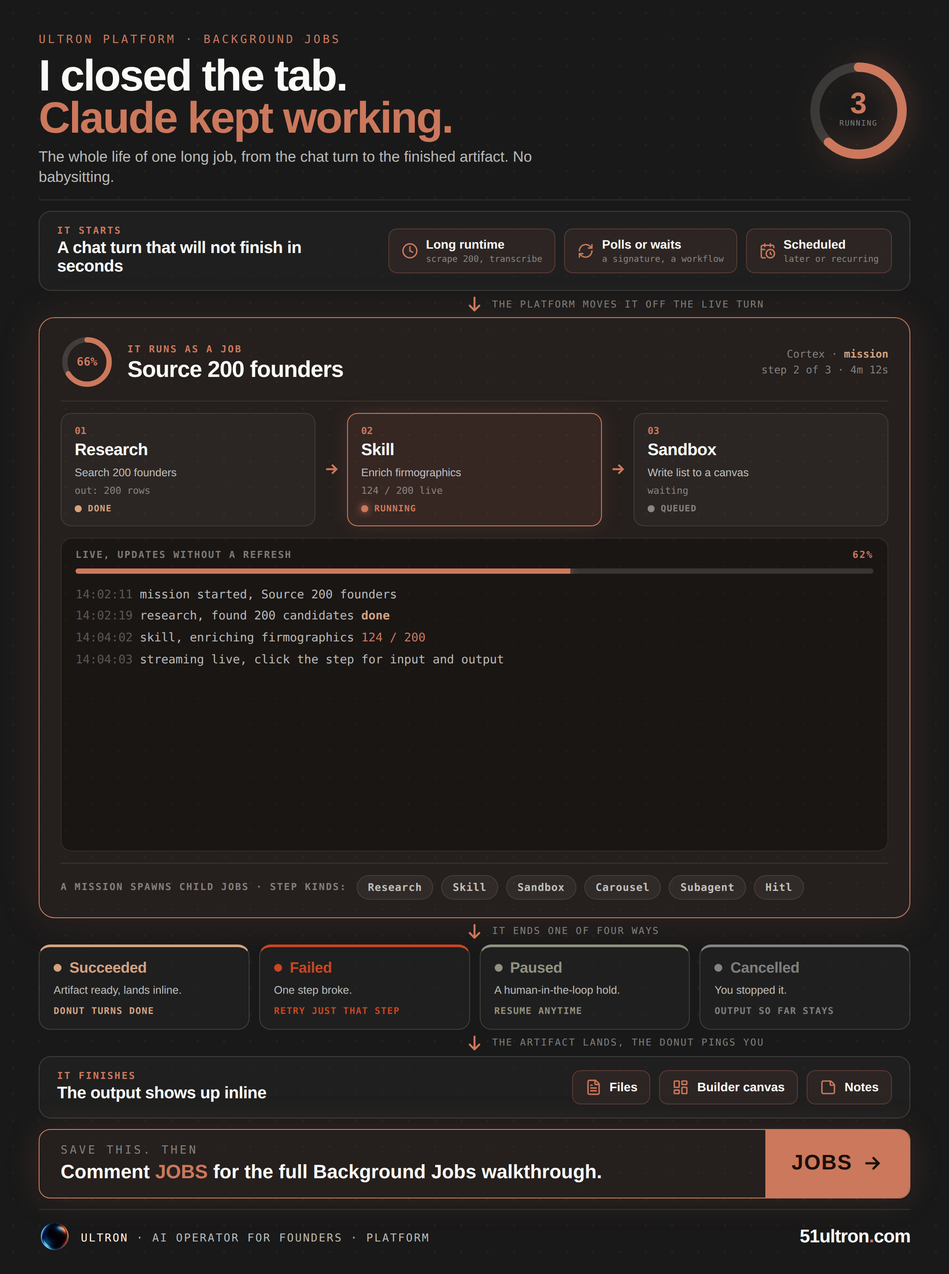
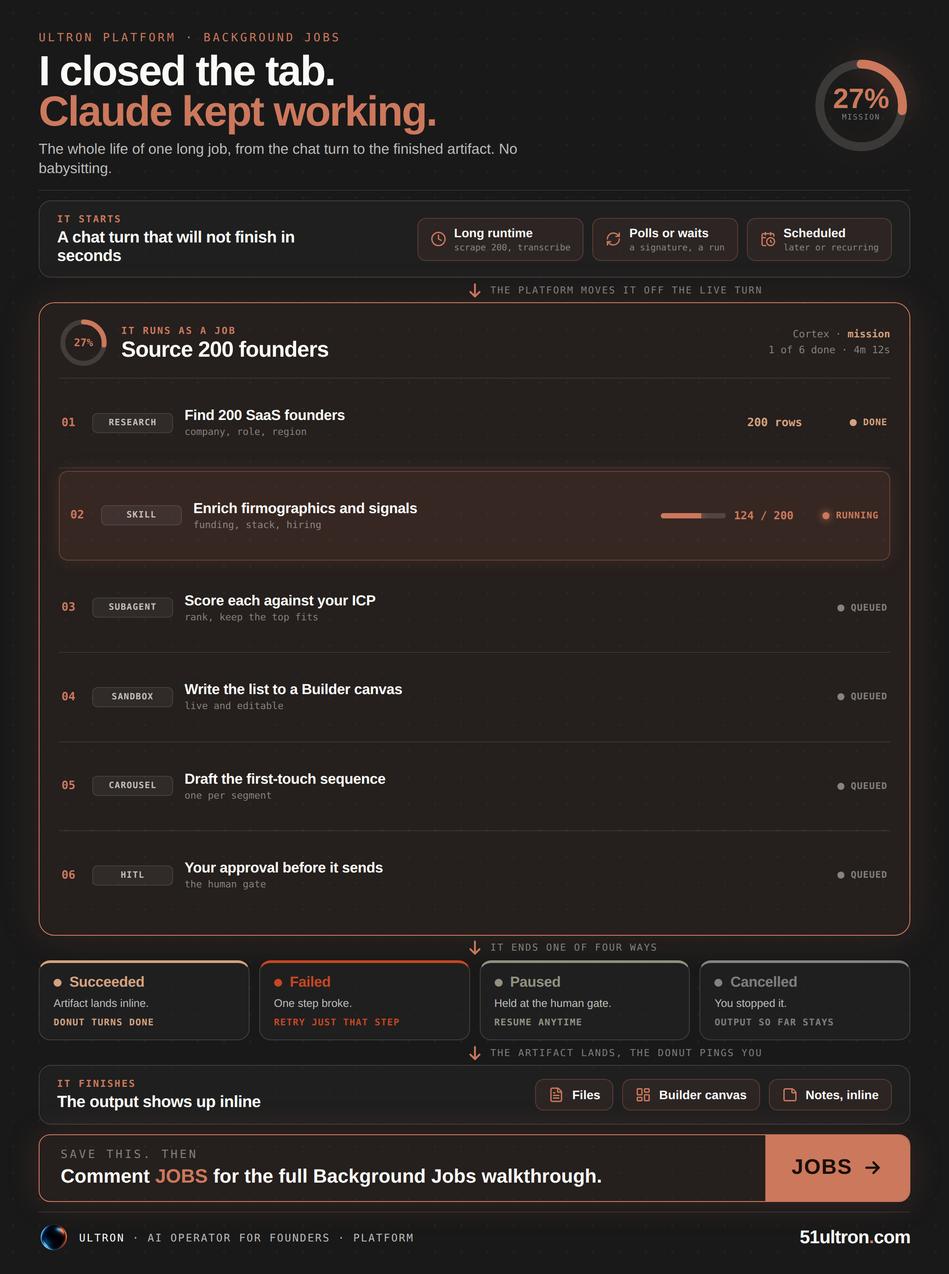
docs-05 Background Jobs: replace terminal log with full live mission panel
Operator: the live terminal console was the wrong element (reads as tool output,
not product UI) and half empty. Repopulate the focal with the correct element:
the real live mission panel. Six child jobs, one per step kind (Research, Skill,
Subagent, Sandbox, Carousel, Hitl), each a rich row with status, progress bar,
counter or result, aligned. Coherent GTM story: source > enrich > score > write
> draft > approve. Fills the focal, no dead space, on-brand. Metadata scrubbed.

https://claude.ai/code/session_018fS7xMwDiJUxoNS3zo3BKw

diff --git a/content/docs-05-jobs-linkedin-journey.html b/content/docs-05-jobs-linkedin-journey.html
@@ -2,81 +2,73 @@
 :root{--slate:#191919;--slate2:#262625;--ivory:#FAFAF7;--ink70:rgba(250,250,247,.72);--ink46:rgba(250,250,247,.46);--ink30:rgba(250,250,247,.30);--ink14:rgba(250,250,247,.14);--rule:rgba(250,250,247,.10);--book:#CC785C;--book-d:#C84623;--kraft:#D4A27F;--cloud:#919180;}
 *{box-sizing:border-box;margin:0;padding:0;}
 body{background:#0d0d0d;display:flex;justify-content:center;padding:24px 0;font-family:'DM Sans',sans-serif;}
-.frame{width:1080px;height:1450px;background:var(--slate);padding:38px 44px 24px;position:relative;overflow:hidden;color:var(--ivory);display:flex;flex-direction:column;}
+.frame{width:1080px;height:1450px;background:var(--slate);padding:36px 44px 24px;position:relative;overflow:hidden;color:var(--ivory);display:flex;flex-direction:column;}
 .frame::before{content:'';position:absolute;inset:0;pointer-events:none;z-index:0;background-image:radial-gradient(rgba(204,120,92,.06) 1.4px,transparent 1.5px);background-size:30px 30px;}
 .atm{position:absolute;inset:0;pointer-events:none;z-index:1;background:radial-gradient(ellipse 56% 26% at 88% -1%,rgba(204,120,92,.18) 0%,transparent 60%),radial-gradient(ellipse 50% 22% at 4% 101%,rgba(212,162,127,.09) 0%,transparent 60%);}
 .frame>*{position:relative;z-index:2;}
-.hero{flex-shrink:0;display:flex;align-items:center;justify-content:space-between;gap:20px;padding-bottom:14px;border-bottom:1px solid var(--rule);margin-bottom:12px;}
-.eye{font-family:'DM Mono',monospace;font-size:13px;font-weight:500;letter-spacing:.2em;text-transform:uppercase;color:var(--book);margin-bottom:9px;}
-.hook{font-weight:900;font-size:50px;line-height:.96;letter-spacing:-1.6px;}.hook em{color:var(--book);font-style:normal;}
-.sub{margin-top:9px;font-size:17px;font-weight:500;line-height:1.36;color:var(--ink70);max-width:620px;}.sub b{color:var(--ivory);font-weight:700;}
-.donut-w{flex-shrink:0;position:relative;width:118px;height:118px;display:flex;align-items:center;justify-content:center;}
-.donut{width:118px;height:118px;transform:rotate(-90deg);filter:drop-shadow(0 0 16px rgba(204,120,92,.4));}
+.hero{flex-shrink:0;display:flex;align-items:center;justify-content:space-between;gap:20px;padding-bottom:13px;border-bottom:1px solid var(--rule);margin-bottom:11px;}
+.eye{font-family:'DM Mono',monospace;font-size:13px;font-weight:500;letter-spacing:.2em;text-transform:uppercase;color:var(--book);margin-bottom:8px;}
+.hook{font-weight:900;font-size:48px;line-height:.96;letter-spacing:-1.5px;}.hook em{color:var(--book);font-style:normal;}
+.sub{margin-top:8px;font-size:16.5px;font-weight:500;line-height:1.34;color:var(--ink70);max-width:600px;}
+.donut-w{flex-shrink:0;position:relative;width:112px;height:112px;display:flex;align-items:center;justify-content:center;}
+.donut{width:112px;height:112px;transform:rotate(-90deg);filter:drop-shadow(0 0 16px rgba(204,120,92,.4));}
 .donut .trk{fill:none;stroke:var(--ink14);stroke-width:9;}.donut .arc{fill:none;stroke:var(--book);stroke-width:9;stroke-linecap:round;}
 .donut-c{position:absolute;display:flex;flex-direction:column;align-items:center;}
-.donut-n{font-weight:900;font-size:34px;color:var(--book);line-height:.8;}.donut-l{font-family:'DM Mono',monospace;font-size:8.5px;font-weight:500;letter-spacing:.13em;text-transform:uppercase;color:var(--ink46);margin-top:4px;}
-/* flow */
+.donut-n{font-weight:900;font-size:32px;color:var(--book);line-height:.8;}.donut-l{font-family:'DM Mono',monospace;font-size:8.5px;font-weight:500;letter-spacing:.13em;text-transform:uppercase;color:var(--ink46);margin-top:4px;}
 .flow{flex:1;display:flex;flex-direction:column;min-height:0;}
-.arrow{flex-shrink:0;display:flex;flex-direction:column;align-items:center;justify-content:center;color:var(--book);height:30px;position:relative;}
-.arrow .lbl{position:absolute;left:calc(50% + 20px);font-family:'DM Mono',monospace;font-size:11px;font-weight:500;letter-spacing:.12em;text-transform:uppercase;color:var(--ink46);white-space:nowrap;}
-.arrow svg{width:22px;height:22px;stroke:var(--book);stroke-width:2.4;fill:none;stroke-linecap:round;stroke-linejoin:round;}
-/* band A */
-.band{flex-shrink:0;background:rgba(38,38,37,.5);border:1px solid var(--ink14);border-radius:14px;padding:15px 20px;display:flex;align-items:center;gap:18px;}
+.arrow{flex-shrink:0;display:flex;align-items:center;justify-content:center;color:var(--book);height:28px;position:relative;}
+.arrow .lbl{position:absolute;left:calc(50% + 18px);font-family:'DM Mono',monospace;font-size:11px;font-weight:500;letter-spacing:.12em;text-transform:uppercase;color:var(--ink46);white-space:nowrap;}
+.arrow svg{width:21px;height:21px;stroke:var(--book);stroke-width:2.4;fill:none;stroke-linecap:round;stroke-linejoin:round;}
+.band{flex-shrink:0;background:rgba(38,38,37,.5);border:1px solid var(--ink14);border-radius:14px;padding:14px 20px;display:flex;align-items:center;gap:18px;}
 .band .bt{flex-shrink:0;}
 .band .bt .k{font-family:'DM Mono',monospace;font-size:11px;font-weight:600;letter-spacing:.14em;text-transform:uppercase;color:var(--book);margin-bottom:4px;}
-.band .bt .h{font-size:19px;font-weight:800;letter-spacing:-.3px;color:var(--ivory);line-height:1.1;max-width:300px;}
+.band .bt .h{font-size:18.5px;font-weight:800;letter-spacing:-.3px;color:var(--ivory);line-height:1.1;max-width:290px;}
 .chips{display:flex;gap:10px;flex:1;justify-content:flex-end;flex-wrap:wrap;}
-.chip{display:flex;align-items:center;gap:9px;background:rgba(204,120,92,.08);border:1px solid rgba(204,120,92,.28);border-radius:10px;padding:9px 14px;}
-.chip .ci{width:19px;height:19px;flex-shrink:0;}.chip .ci svg{width:100%;height:100%;}
+.chip{display:flex;align-items:center;gap:9px;background:rgba(204,120,92,.08);border:1px solid rgba(204,120,92,.28);border-radius:10px;padding:8px 14px;}
+.chip .ci{width:18px;height:18px;flex-shrink:0;}.chip .ci svg{width:100%;height:100%;}
 .chip .ct{font-size:14px;font-weight:700;color:var(--ivory);line-height:1.05;}.chip .cs{display:block;font-family:'DM Mono',monospace;font-size:10px;font-weight:500;color:var(--ink46);margin-top:2px;}
-/* focal B */
-.focal{flex:1;min-height:0;background:rgba(204,120,92,.07);border:1.5px solid var(--book);border-radius:18px;box-shadow:0 0 50px rgba(204,120,92,.14);padding:20px 24px;display:flex;flex-direction:column;}
-.focal-h{display:flex;align-items:center;gap:16px;flex-shrink:0;padding-bottom:14px;border-bottom:1px solid var(--rule);}
-.fd{width:60px;height:60px;position:relative;flex-shrink:0;display:flex;align-items:center;justify-content:center;}
-.fd svg{width:60px;height:60px;transform:rotate(-90deg);}.fd .trk{fill:none;stroke:var(--ink14);stroke-width:10;}.fd .arc{fill:none;stroke:var(--book);stroke-width:10;stroke-linecap:round;}
-.fd .fdt{position:absolute;font-family:'DM Mono',monospace;font-size:13px;font-weight:700;color:var(--book);}
+/* FOCAL = live mission panel */
+.focal{flex:1;min-height:0;background:rgba(204,120,92,.07);border:1.5px solid var(--book);border-radius:18px;box-shadow:0 0 50px rgba(204,120,92,.14);padding:17px 22px;display:flex;flex-direction:column;}
+.focal-h{display:flex;align-items:center;gap:15px;flex-shrink:0;padding-bottom:12px;border-bottom:1px solid var(--rule);}
+.fd{width:56px;height:56px;position:relative;flex-shrink:0;display:flex;align-items:center;justify-content:center;}
+.fd svg{width:56px;height:56px;transform:rotate(-90deg);}.fd .trk{fill:none;stroke:var(--ink14);stroke-width:10;}.fd .arc{fill:none;stroke:var(--book);stroke-width:10;stroke-linecap:round;}
+.fd .fdt{position:absolute;font-family:'DM Mono',monospace;font-size:12px;font-weight:700;color:var(--book);}
 .focal-h .ft .k{font-family:'DM Mono',monospace;font-size:11px;font-weight:600;letter-spacing:.14em;text-transform:uppercase;color:var(--book);margin-bottom:3px;}
-.focal-h .ft .h{font-size:26px;font-weight:900;letter-spacing:-.6px;color:var(--ivory);line-height:1;}
-.focal-h .meta{margin-left:auto;text-align:right;font-family:'DM Mono',monospace;font-size:12px;font-weight:500;color:var(--ink46);line-height:1.5;}
+.focal-h .ft .h{font-size:25px;font-weight:900;letter-spacing:-.6px;color:var(--ivory);line-height:1;}
+.focal-h .meta{margin-left:auto;text-align:right;font-family:'DM Mono',monospace;font-size:11.5px;font-weight:500;color:var(--ink46);line-height:1.55;}
 .focal-h .meta b{color:var(--kraft);font-weight:700;}
-.steps{flex-shrink:0;display:flex;align-items:stretch;justify-content:space-between;gap:8px;padding:13px 0;}
-.stp{flex:1;display:flex;flex-direction:column;background:rgba(255,255,255,.03);border:1px solid var(--rule);border-radius:12px;padding:13px 15px;}
-.stp.run{border-color:var(--book);background:rgba(204,120,92,.1);box-shadow:0 0 24px rgba(204,120,92,.16);}
-.stp .sn{font-family:'DM Mono',monospace;font-size:11px;font-weight:700;color:var(--book);}
-.stp .sk{font-size:19px;font-weight:800;color:var(--ivory);letter-spacing:-.3px;margin:5px 0 6px;}
-.stp .sd{font-size:12.5px;font-weight:500;color:var(--ink70);line-height:1.32;}
-.sio{font-family:'DM Mono',monospace;font-size:11px;font-weight:500;color:var(--ink46);margin-top:5px;}
-.stp .ss{margin-top:auto;padding-top:9px;display:inline-flex;align-items:center;gap:7px;font-family:'DM Mono',monospace;font-size:10px;font-weight:600;letter-spacing:.08em;text-transform:uppercase;}
-.stp .ss .d{width:8px;height:8px;border-radius:50%;}
-.ss.done{color:var(--kraft);}.ss.done .d{background:var(--kraft);}
-.ss.run{color:var(--book);}.ss.run .d{background:var(--book);box-shadow:0 0 9px var(--book);}
-.ss.q{color:var(--ink46);}.ss.q .d{background:var(--ink46);}
-.sarrow{flex-shrink:0;color:var(--book);display:flex;align-items:center;}.sarrow svg{width:20px;height:20px;stroke:var(--book);stroke-width:2.6;fill:none;}
-.live{flex:1;min-height:0;display:flex;flex-direction:column;background:rgba(0,0,0,.28);border:1px solid var(--rule);border-radius:12px;padding:12px 16px;margin-bottom:13px;overflow:hidden;}
-.live-h{display:flex;align-items:center;font-family:'DM Mono',monospace;font-size:11px;font-weight:600;letter-spacing:.12em;text-transform:uppercase;color:var(--ink46);}
-.live-h .pct{margin-left:auto;color:var(--book);}
-.bar{height:6px;border-radius:3px;background:var(--ink14);margin:9px 0 12px;overflow:hidden;}
-.bar span{display:block;height:100%;width:62%;background:var(--book);box-shadow:0 0 12px var(--book);}
-.log{flex:1;font-family:'DM Mono',monospace;font-size:13.5px;line-height:1.85;color:var(--ink70);}
-.log .t{color:var(--ink30);}.log b{color:var(--kraft);font-weight:700;}.log em{color:var(--book);font-style:normal;}
-.kinds{flex-shrink:0;display:flex;align-items:center;gap:9px;flex-wrap:wrap;padding-top:13px;border-top:1px solid var(--rule);}
-.kinds .kl{font-family:'DM Mono',monospace;font-size:11px;font-weight:600;letter-spacing:.12em;text-transform:uppercase;color:var(--ink46);margin-right:2px;}
-.kc{font-family:'DM Mono',monospace;font-size:12px;font-weight:600;letter-spacing:.04em;color:var(--ink70);background:rgba(250,250,247,.05);border:1px solid var(--rule);padding:6px 12px;border-radius:20px;}
-/* branch C */
+.mrows{flex:1;display:flex;flex-direction:column;min-height:0;}
+.srow{flex:1;display:flex;align-items:center;gap:13px;border-bottom:1px solid var(--rule);padding:0 3px;}
+.srow:last-child{border-bottom:none;}
+.srow.run{background:rgba(204,120,92,.1);border:1px solid rgba(204,120,92,.34);border-radius:10px;padding:0 12px;margin:3px 0;box-shadow:0 0 22px rgba(204,120,92,.14);}
+.ri{font-family:'DM Mono',monospace;font-size:13px;font-weight:700;color:var(--book);width:22px;flex-shrink:0;}
+.rk{font-family:'DM Mono',monospace;font-size:10px;font-weight:600;letter-spacing:.08em;color:var(--ink70);background:rgba(250,250,247,.05);border:1px solid var(--rule);padding:5px 0;border-radius:6px;width:92px;text-align:center;flex-shrink:0;}
+.rt{flex:1;font-size:16.5px;font-weight:700;color:var(--ivory);letter-spacing:-.2px;min-width:0;}
+.rt .rsub{display:block;font-family:'DM Mono',monospace;font-size:11px;font-weight:500;color:var(--ink46);margin-top:2px;letter-spacing:0;}
+.rr{display:flex;align-items:center;justify-content:flex-end;gap:13px;flex-shrink:0;min-width:236px;}
+.res{font-family:'DM Mono',monospace;font-size:13px;font-weight:700;color:var(--kraft);}
+.prog{display:flex;align-items:center;gap:9px;font-family:'DM Mono',monospace;font-size:12.5px;font-weight:700;color:var(--book);}
+.pbar{width:74px;height:6px;border-radius:3px;background:var(--ink14);overflow:hidden;}.pbar i{display:block;height:100%;background:var(--book);box-shadow:0 0 10px var(--book);}
+.qd{font-family:'DM Mono',monospace;font-size:12px;color:var(--ink30);}
+.rs{display:flex;align-items:center;gap:7px;font-family:'DM Mono',monospace;font-size:10.5px;font-weight:600;letter-spacing:.06em;text-transform:uppercase;width:84px;justify-content:flex-end;}
+.rs .d{width:8px;height:8px;border-radius:50%;flex-shrink:0;}
+.rs.done{color:var(--kraft);}.rs.done .d{background:var(--kraft);}
+.rs.run{color:var(--book);}.rs.run .d{background:var(--book);box-shadow:0 0 9px var(--book);}
+.rs.q{color:var(--ink46);}.rs.q .d{background:var(--ink46);}
 .branch{flex-shrink:0;display:grid;grid-template-columns:repeat(4,1fr);gap:11px;}
-.oc{background:rgba(38,38,37,.5);border:1px solid var(--ink14);border-top:3px solid var(--c);border-radius:13px;padding:14px 16px;}
-.oc .on{display:flex;align-items:center;gap:9px;font-weight:800;font-size:17px;letter-spacing:-.2px;color:var(--c);margin-bottom:7px;}
+.oc{background:rgba(38,38,37,.5);border:1px solid var(--ink14);border-top:3px solid var(--c);border-radius:13px;padding:13px 16px;}
+.oc .on{display:flex;align-items:center;gap:9px;font-weight:800;font-size:16.5px;letter-spacing:-.2px;color:var(--c);margin-bottom:6px;}
 .oc .on .d{width:9px;height:9px;border-radius:50%;background:var(--c);flex-shrink:0;}
-.oc .od{font-size:12.5px;font-weight:500;color:var(--ink70);line-height:1.34;}
-.oc .ok{margin-top:9px;font-family:'DM Mono',monospace;font-size:10.5px;font-weight:600;letter-spacing:.08em;text-transform:uppercase;color:var(--c);}
-.cta{flex-shrink:0;margin-top:12px;display:flex;align-items:stretch;border:1px solid var(--book);border-radius:13px;overflow:hidden;box-shadow:0 0 40px rgba(204,120,92,.16);}
-.cta-l{flex:1;padding:16px 24px;display:flex;flex-direction:column;justify-content:center;gap:4px;background:rgba(204,120,92,.07);}
+.oc .od{font-size:12.5px;font-weight:500;color:var(--ink70);line-height:1.32;}
+.oc .ok{margin-top:8px;font-family:'DM Mono',monospace;font-size:10.5px;font-weight:600;letter-spacing:.08em;text-transform:uppercase;color:var(--c);}
+.cta{flex-shrink:0;margin-top:11px;display:flex;align-items:stretch;border:1px solid var(--book);border-radius:13px;overflow:hidden;box-shadow:0 0 40px rgba(204,120,92,.16);}
+.cta-l{flex:1;padding:15px 24px;display:flex;flex-direction:column;justify-content:center;gap:4px;background:rgba(204,120,92,.07);}
 .cta-k{font-family:'DM Mono',monospace;font-size:13px;font-weight:500;letter-spacing:.2em;text-transform:uppercase;color:var(--ink46);}
 .cta-t{font-size:22px;font-weight:700;color:var(--ivory);line-height:1.2;}.cta-t b{color:var(--book);font-weight:900;}
 .cta-chip{flex-shrink:0;padding:0 30px;gap:11px;background:var(--book);display:flex;align-items:center;font-size:24px;font-weight:900;letter-spacing:.04em;text-transform:uppercase;color:#1a0f0a;}
 .cta-chip svg{width:24px;height:24px;stroke:#1a0f0a;stroke-width:2.6;fill:none;stroke-linecap:round;stroke-linejoin:round;}
-.ftr{flex-shrink:0;margin-top:12px;display:flex;align-items:center;justify-content:space-between;gap:18px;border-top:1px solid var(--rule);padding-top:13px;}
-.fl{display:flex;align-items:center;gap:12px;min-width:0;}.flogo{width:36px;height:36px;border-radius:50%;object-fit:cover;}
-.ftx{font-family:'DM Mono',monospace;font-size:12.5px;font-weight:400;letter-spacing:.12em;text-transform:uppercase;color:var(--ink70);}.ftx b{color:var(--ivory);font-weight:500;}
+.ftr{flex-shrink:0;margin-top:11px;display:flex;align-items:center;justify-content:space-between;gap:18px;border-top:1px solid var(--rule);padding-top:12px;}
+.fl{display:flex;align-items:center;gap:12px;min-width:0;}.flogo{width:34px;height:34px;border-radius:50%;object-fit:cover;}
+.ftx{font-family:'DM Mono',monospace;font-size:12px;font-weight:400;letter-spacing:.12em;text-transform:uppercase;color:var(--ink70);}.ftx b{color:var(--ivory);font-weight:500;}
 .furl{font-weight:900;font-size:21px;letter-spacing:-.5px;color:var(--ivory);}.furl em{color:var(--book);font-style:normal;}
-</style></head><body><div class="frame" id="artifact"><div class="atm"></div><div class="hero"><div><div class="eye">Ultron Platform &middot; Background Jobs</div><div class="hook">I closed the tab.<br><em>Claude kept working.</em></div><div class="sub">The whole life of one long job, from the chat turn to the finished artifact. No babysitting.</div></div><div class="donut-w"><svg class="donut" viewBox="0 0 100 100"><circle class="trk" cx="50" cy="50" r="42"/><circle class="arc" cx="50" cy="50" r="42" stroke-dasharray="163.6 263.9"/></svg><div class="donut-c"><div class="donut-n">3</div><div class="donut-l">Running</div></div></div></div><div class="flow"><div class="band"><div class="bt"><div class="k">It starts</div><div class="h">A chat turn that will not finish in seconds</div></div><div class="chips"><div class="chip"><span class="ci"><svg xmlns="http://www.w3.org/2000/svg" width="1em" height="1em" viewBox="0 0 24 24"><g fill="none" stroke="#CC785C" stroke-linecap="round" stroke-linejoin="round" stroke-width="2"><circle cx="12" cy="12" r="10"/><path d="M12 6v6l4 2"/></g></svg></span><span><span class="ct">Long runtime</span><span class="cs">scrape 200, transcribe</span></span></div><div class="chip"><span class="ci"><svg xmlns="http://www.w3.org/2000/svg" width="1em" height="1em" viewBox="0 0 24 24"><g fill="none" stroke="#CC785C" stroke-linecap="round" stroke-linejoin="round" stroke-width="2"><path d="M3 12a9 9 0 0 1 9-9a9.75 9.75 0 0 1 6.74 2.74L21 8"/><path d="M21 3v5h-5m5 4a9 9 0 0 1-9 9a9.75 9.75 0 0 1-6.74-2.74L3 16"/><path d="M8 16H3v5"/></g></svg></span><span><span class="ct">Polls or waits</span><span class="cs">a signature, a workflow</span></span></div><div class="chip"><span class="ci"><svg xmlns="http://www.w3.org/2000/svg" width="1em" height="1em" viewBox="0 0 24 24"><g fill="none" stroke="#CC785C" stroke-linecap="round" stroke-linejoin="round" stroke-width="2"><path d="M16 14v2.2l1.6 1M16 2v4m5 1.5V6a2 2 0 0 0-2-2H5a2 2 0 0 0-2 2v14a2 2 0 0 0 2 2h3.5M3 10h5m0-8v4"/><circle cx="16" cy="16" r="6"/></g></svg></span><span><span class="ct">Scheduled</span><span class="cs">later or recurring</span></span></div></div></div><div class="arrow"><svg viewBox="0 0 24 24"><path d="M12 4v16M6 14l6 6 6-6"/></svg><span class="lbl">the platform moves it off the live turn</span></div><div class="focal"><div class="focal-h"><div class="fd"><svg viewBox="0 0 100 100"><circle class="trk" cx="50" cy="50" r="42"/><circle class="arc" cx="50" cy="50" r="42" stroke-dasharray="174 264"/></svg><span class="fdt">66%</span></div><div class="ft"><div class="k">It runs as a job</div><div class="h">Source 200 founders</div></div><div class="meta">Cortex &middot; <b>mission</b><br>step 2 of 3 &middot; 4m 12s</div></div><div class="steps"><div class="stp "><div class="sn">01</div><div class="sk">Research</div><div class="sd">Search 200 founders</div><div class="sio">out: 200 rows</div><div class="ss done"><span class="d"></span>Done</div></div><div class="sarrow"><svg viewBox="0 0 24 24"><path d="M5 12h14M13 6l6 6-6 6"/></svg></div><div class="stp run"><div class="sn">02</div><div class="sk">Skill</div><div class="sd">Enrich firmographics</div><div class="sio">124 / 200 live</div><div class="ss run"><span class="d"></span>Running</div></div><div class="sarrow"><svg viewBox="0 0 24 24"><path d="M5 12h14M13 6l6 6-6 6"/></svg></div><div class="stp "><div class="sn">03</div><div class="sk">Sandbox</div><div class="sd">Write list to a canvas</div><div class="sio">waiting</div><div class="ss q"><span class="d"></span>Queued</div></div></div><div class="live"><div class="live-h">Live, updates without a refresh<span class="pct">62%</span></div><div class="bar"><span></span></div><div class="log"><div><span class="t">14:02:11</span>  mission started, Source 200 founders</div><div><span class="t">14:02:19</span>  research, found 200 candidates  <b>done</b></div><div><span class="t">14:04:02</span>  skill, enriching firmographics  <em>124 / 200</em></div><div><span class="t">14:04:03</span>  streaming live, click the step for input and output</div></div></div><div class="kinds"><span class="kl">A mission spawns child jobs &middot; step kinds:</span><span class="kc">Research</span><span class="kc">Skill</span><span class="kc">Sandbox</span><span class="kc">Carousel</span><span class="kc">Subagent</span><span class="kc">Hitl</span></div></div><div class="arrow"><svg viewBox="0 0 24 24"><path d="M12 4v16M6 14l6 6 6-6"/></svg><span class="lbl">it ends one of four ways</span></div><div class="branch"><div class="oc" style="--c:var(--kraft)"><div class="on"><span class="d"></span>Succeeded</div><div class="od">Artifact ready, lands inline.</div><div class="ok">Donut turns done</div></div><div class="oc" style="--c:var(--book-d)"><div class="on"><span class="d"></span>Failed</div><div class="od">One step broke.</div><div class="ok">Retry just that step</div></div><div class="oc" style="--c:var(--cloud)"><div class="on"><span class="d"></span>Paused</div><div class="od">A human-in-the-loop hold.</div><div class="ok">Resume anytime</div></div><div class="oc" style="--c:var(--ink46)"><div class="on"><span class="d"></span>Cancelled</div><div class="od">You stopped it.</div><div class="ok">Output so far stays</div></div></div><div class="arrow"><svg viewBox="0 0 24 24"><path d="M12 4v16M6 14l6 6 6-6"/></svg><span class="lbl">the artifact lands, the donut pings you</span></div><div class="band"><div class="bt"><div class="k">It finishes</div><div class="h">The output shows up inline</div></div><div class="chips"><div class="chip"><span class="ci"><svg xmlns="http://www.w3.org/2000/svg" width="1em" height="1em" viewBox="0 0 24 24"><g fill="none" stroke="#CC785C" stroke-linecap="round" stroke-linejoin="round" stroke-width="2"><path d="M6 22a2 2 0 0 1-2-2V4a2 2 0 0 1 2-2h8a2.4 2.4 0 0 1 1.704.706l3.588 3.588A2.4 2.4 0 0 1 20 8v12a2 2 0 0 1-2 2z"/><path d="M14 2v5a1 1 0 0 0 1 1h5M10 9H8m8 4H8m8 4H8"/></g></svg></span><span class="ct">Files</span></div><div class="chip"><span class="ci"><svg xmlns="http://www.w3.org/2000/svg" width="1em" height="1em" viewBox="0 0 24 24"><g fill="none" stroke="#CC785C" stroke-linecap="round" stroke-linejoin="round" stroke-width="2"><rect width="7" height="9" x="3" y="3" rx="1"/><rect width="7" height="5" x="14" y="3" rx="1"/><rect width="7" height="9" x="14" y="12" rx="1"/><rect width="7" height="5" x="3" y="16" rx="1"/></g></svg></span><span class="ct">Builder canvas</span></div><div class="chip"><span class="ci"><svg xmlns="http://www.w3.org/2000/svg" width="1em" height="1em" viewBox="0 0 24 24"><g fill="none" stroke="#CC785C" stroke-linecap="round" stroke-linejoin="round" stroke-width="2"><path d="M21 9a2.4 2.4 0 0 0-.706-1.706l-3.588-3.588A2.4 2.4 0 0 0 15 3H5a2 2 0 0 0-2 2v14a2 2 0 0 0 2 2h14a2 2 0 0 0 2-2z"/><path d="M15 3v5a1 1 0 0 0 1 1h5"/></g></svg></span><span class="ct">Notes</span></div></div></div></div><div class="cta"><div class="cta-l"><div class="cta-k">Save this. Then</div><div class="cta-t">Comment <b>JOBS</b> for the full Background Jobs walkthrough.</div></div><div class="cta-chip">JOBS <svg viewBox="0 0 24 24"><path d="M5 12h14M13 6l6 6-6 6"/></svg></div></div><div class="ftr"><div class="fl"><img class="flogo" src="__LOGO_URI__" alt="Ultron"><div class="ftx"><b>ULTRON</b> &middot; AI OPERATOR FOR FOUNDERS &middot; PLATFORM</div></div><div class="furl">51ultron<em>.</em>com</div></div></div></body></html>
+</style></head><body><div class="frame" id="artifact"><div class="atm"></div><div class="hero"><div><div class="eye">Ultron Platform &middot; Background Jobs</div><div class="hook">I closed the tab.<br><em>Claude kept working.</em></div><div class="sub">The whole life of one long job, from the chat turn to the finished artifact. No babysitting.</div></div><div class="donut-w"><svg class="donut" viewBox="0 0 100 100"><circle class="trk" cx="50" cy="50" r="42"/><circle class="arc" cx="50" cy="50" r="42" stroke-dasharray="71.3 263.9"/></svg><div class="donut-c"><div class="donut-n">27%</div><div class="donut-l">Mission</div></div></div></div><div class="flow"><div class="band"><div class="bt"><div class="k">It starts</div><div class="h">A chat turn that will not finish in seconds</div></div><div class="chips"><div class="chip"><span class="ci"><svg xmlns="http://www.w3.org/2000/svg" width="1em" height="1em" viewBox="0 0 24 24"><g fill="none" stroke="#CC785C" stroke-linecap="round" stroke-linejoin="round" stroke-width="2"><circle cx="12" cy="12" r="10"/><path d="M12 6v6l4 2"/></g></svg></span><span><span class="ct">Long runtime</span><span class="cs">scrape 200, transcribe</span></span></div><div class="chip"><span class="ci"><svg xmlns="http://www.w3.org/2000/svg" width="1em" height="1em" viewBox="0 0 24 24"><g fill="none" stroke="#CC785C" stroke-linecap="round" stroke-linejoin="round" stroke-width="2"><path d="M3 12a9 9 0 0 1 9-9a9.75 9.75 0 0 1 6.74 2.74L21 8"/><path d="M21 3v5h-5m5 4a9 9 0 0 1-9 9a9.75 9.75 0 0 1-6.74-2.74L3 16"/><path d="M8 16H3v5"/></g></svg></span><span><span class="ct">Polls or waits</span><span class="cs">a signature, a run</span></span></div><div class="chip"><span class="ci"><svg xmlns="http://www.w3.org/2000/svg" width="1em" height="1em" viewBox="0 0 24 24"><g fill="none" stroke="#CC785C" stroke-linecap="round" stroke-linejoin="round" stroke-width="2"><path d="M16 14v2.2l1.6 1M16 2v4m5 1.5V6a2 2 0 0 0-2-2H5a2 2 0 0 0-2 2v14a2 2 0 0 0 2 2h3.5M3 10h5m0-8v4"/><circle cx="16" cy="16" r="6"/></g></svg></span><span><span class="ct">Scheduled</span><span class="cs">later or recurring</span></span></div></div></div><div class="arrow"><svg viewBox="0 0 24 24"><path d="M12 4v16M6 14l6 6 6-6"/></svg><span class="lbl">the platform moves it off the live turn</span></div><div class="focal"><div class="focal-h"><div class="fd"><svg viewBox="0 0 100 100"><circle class="trk" cx="50" cy="50" r="42"/><circle class="arc" cx="50" cy="50" r="42" stroke-dasharray="71 264"/></svg><span class="fdt">27%</span></div><div class="ft"><div class="k">It runs as a job</div><div class="h">Source 200 founders</div></div><div class="meta">Cortex &middot; <b>mission</b><br>1 of 6 done &middot; 4m 12s</div></div><div class="mrows"><div class="srow "><span class="ri">01</span><span class="rk">RESEARCH</span><span class="rt">Find 200 SaaS founders<span class="rsub">company, role, region</span></span><span class="rr"><span class="res">200 rows</span><span class="rs done"><span class="d"></span>done</span></span></div><div class="srow run"><span class="ri">02</span><span class="rk">SKILL</span><span class="rt">Enrich firmographics and signals<span class="rsub">funding, stack, hiring</span></span><span class="rr"><span class="prog"><span class="pbar"><i style="width:62%"></i></span>124 / 200</span><span class="rs run"><span class="d"></span>running</span></span></div><div class="srow "><span class="ri">03</span><span class="rk">SUBAGENT</span><span class="rt">Score each against your ICP<span class="rsub">rank, keep the top fits</span></span><span class="rr"><span class="rs q"><span class="d"></span>queued</span></span></div><div class="srow "><span class="ri">04</span><span class="rk">SANDBOX</span><span class="rt">Write the list to a Builder canvas<span class="rsub">live and editable</span></span><span class="rr"><span class="rs q"><span class="d"></span>queued</span></span></div><div class="srow "><span class="ri">05</span><span class="rk">CAROUSEL</span><span class="rt">Draft the first-touch sequence<span class="rsub">one per segment</span></span><span class="rr"><span class="rs q"><span class="d"></span>queued</span></span></div><div class="srow "><span class="ri">06</span><span class="rk">HITL</span><span class="rt">Your approval before it sends<span class="rsub">the human gate</span></span><span class="rr"><span class="rs q"><span class="d"></span>queued</span></span></div></div></div><div class="arrow"><svg viewBox="0 0 24 24"><path d="M12 4v16M6 14l6 6 6-6"/></svg><span class="lbl">it ends one of four ways</span></div><div class="branch"><div class="oc" style="--c:var(--kraft)"><div class="on"><span class="d"></span>Succeeded</div><div class="od">Artifact lands inline.</div><div class="ok">Donut turns done</div></div><div class="oc" style="--c:var(--book-d)"><div class="on"><span class="d"></span>Failed</div><div class="od">One step broke.</div><div class="ok">Retry just that step</div></div><div class="oc" style="--c:var(--cloud)"><div class="on"><span class="d"></span>Paused</div><div class="od">Held at the human gate.</div><div class="ok">Resume anytime</div></div><div class="oc" style="--c:var(--ink46)"><div class="on"><span class="d"></span>Cancelled</div><div class="od">You stopped it.</div><div class="ok">Output so far stays</div></div></div><div class="arrow"><svg viewBox="0 0 24 24"><path d="M12 4v16M6 14l6 6 6-6"/></svg><span class="lbl">the artifact lands, the donut pings you</span></div><div class="band"><div class="bt"><div class="k">It finishes</div><div class="h">The output shows up inline</div></div><div class="chips"><div class="chip"><span class="ci"><svg xmlns="http://www.w3.org/2000/svg" width="1em" height="1em" viewBox="0 0 24 24"><g fill="none" stroke="#CC785C" stroke-linecap="round" stroke-linejoin="round" stroke-width="2"><path d="M6 22a2 2 0 0 1-2-2V4a2 2 0 0 1 2-2h8a2.4 2.4 0 0 1 1.704.706l3.588 3.588A2.4 2.4 0 0 1 20 8v12a2 2 0 0 1-2 2z"/><path d="M14 2v5a1 1 0 0 0 1 1h5M10 9H8m8 4H8m8 4H8"/></g></svg></span><span class="ct">Files</span></div><div class="chip"><span class="ci"><svg xmlns="http://www.w3.org/2000/svg" width="1em" height="1em" viewBox="0 0 24 24"><g fill="none" stroke="#CC785C" stroke-linecap="round" stroke-linejoin="round" stroke-width="2"><rect width="7" height="9" x="3" y="3" rx="1"/><rect width="7" height="5" x="14" y="3" rx="1"/><rect width="7" height="9" x="14" y="12" rx="1"/><rect width="7" height="5" x="3" y="16" rx="1"/></g></svg></span><span class="ct">Builder canvas</span></div><div class="chip"><span class="ci"><svg xmlns="http://www.w3.org/2000/svg" width="1em" height="1em" viewBox="0 0 24 24"><g fill="none" stroke="#CC785C" stroke-linecap="round" stroke-linejoin="round" stroke-width="2"><path d="M21 9a2.4 2.4 0 0 0-.706-1.706l-3.588-3.588A2.4 2.4 0 0 0 15 3H5a2 2 0 0 0-2 2v14a2 2 0 0 0 2 2h14a2 2 0 0 0 2-2z"/><path d="M15 3v5a1 1 0 0 0 1 1h5"/></g></svg></span><span class="ct">Notes, inline</span></div></div></div></div><div class="cta"><div class="cta-l"><div class="cta-k">Save this. Then</div><div class="cta-t">Comment <b>JOBS</b> for the full Background Jobs walkthrough.</div></div><div class="cta-chip">JOBS <svg viewBox="0 0 24 24"><path d="M5 12h14M13 6l6 6-6 6"/></svg></div></div><div class="ftr"><div class="fl"><img class="flogo" src="__LOGO_URI__" alt="Ultron"><div class="ftx"><b>ULTRON</b> &middot; AI OPERATOR FOR FOUNDERS &middot; PLATFORM</div></div><div class="furl">51ultron<em>.</em>com</div></div></div></body></html>
